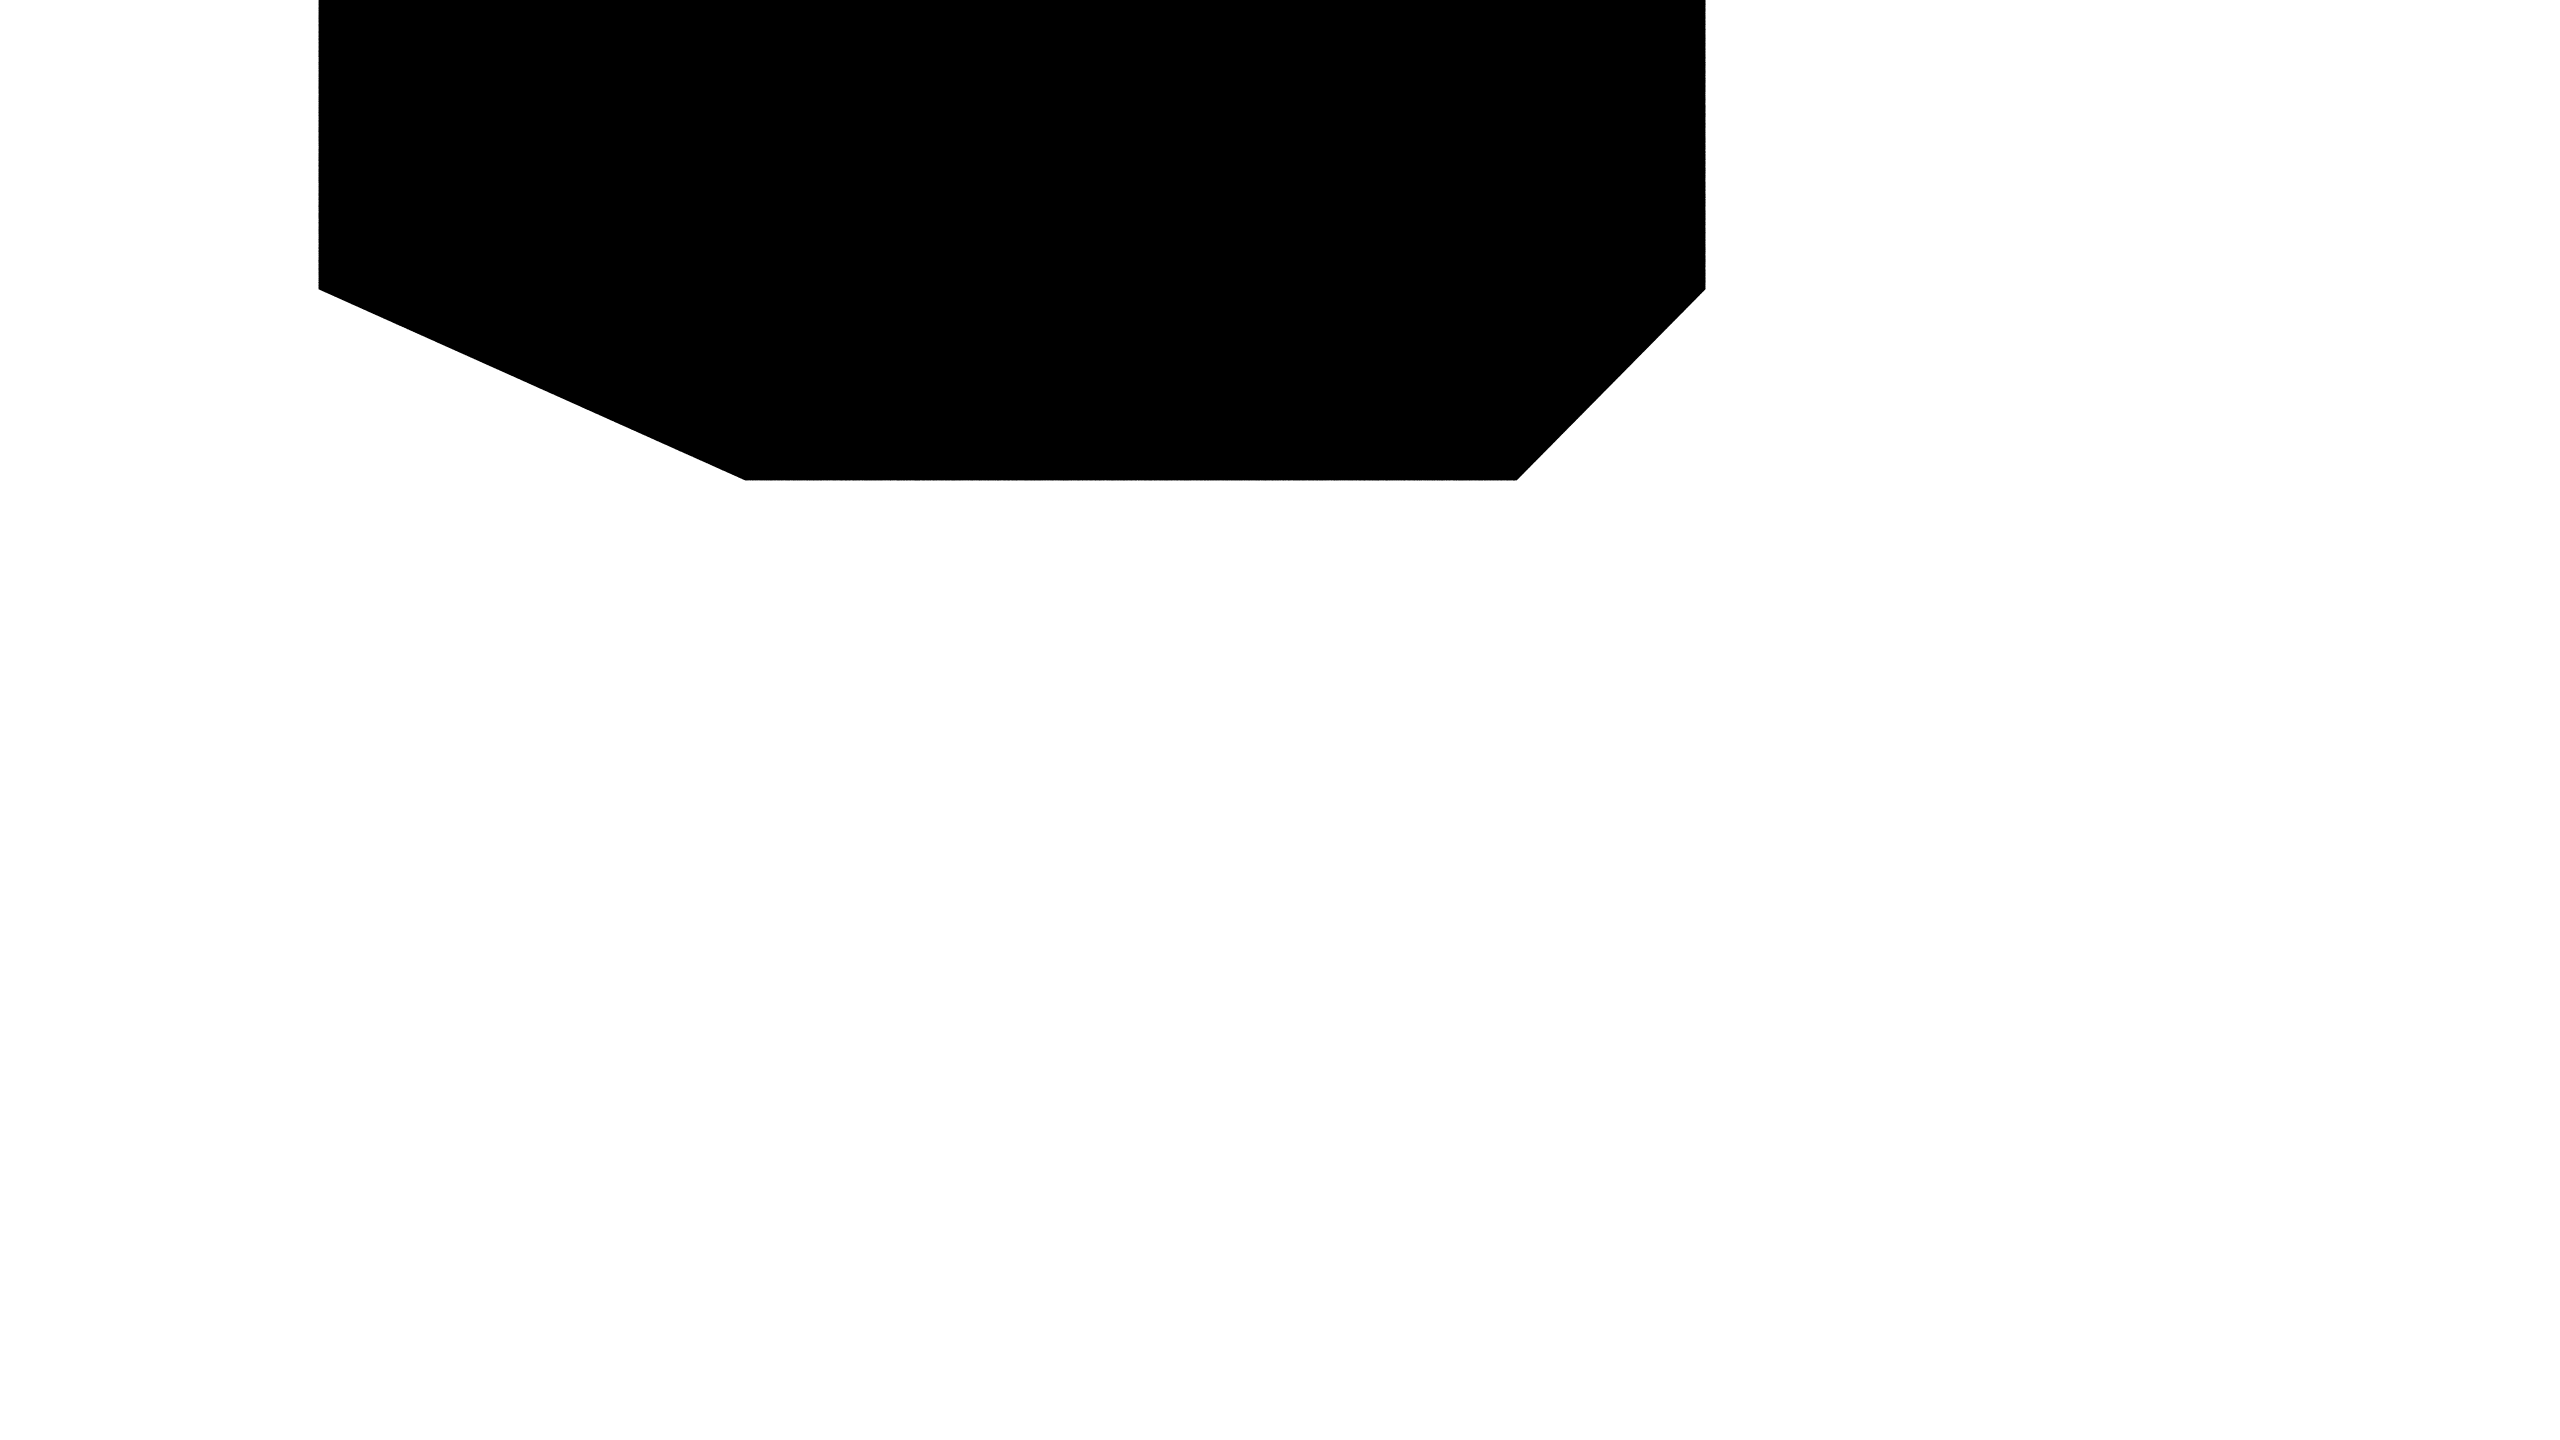
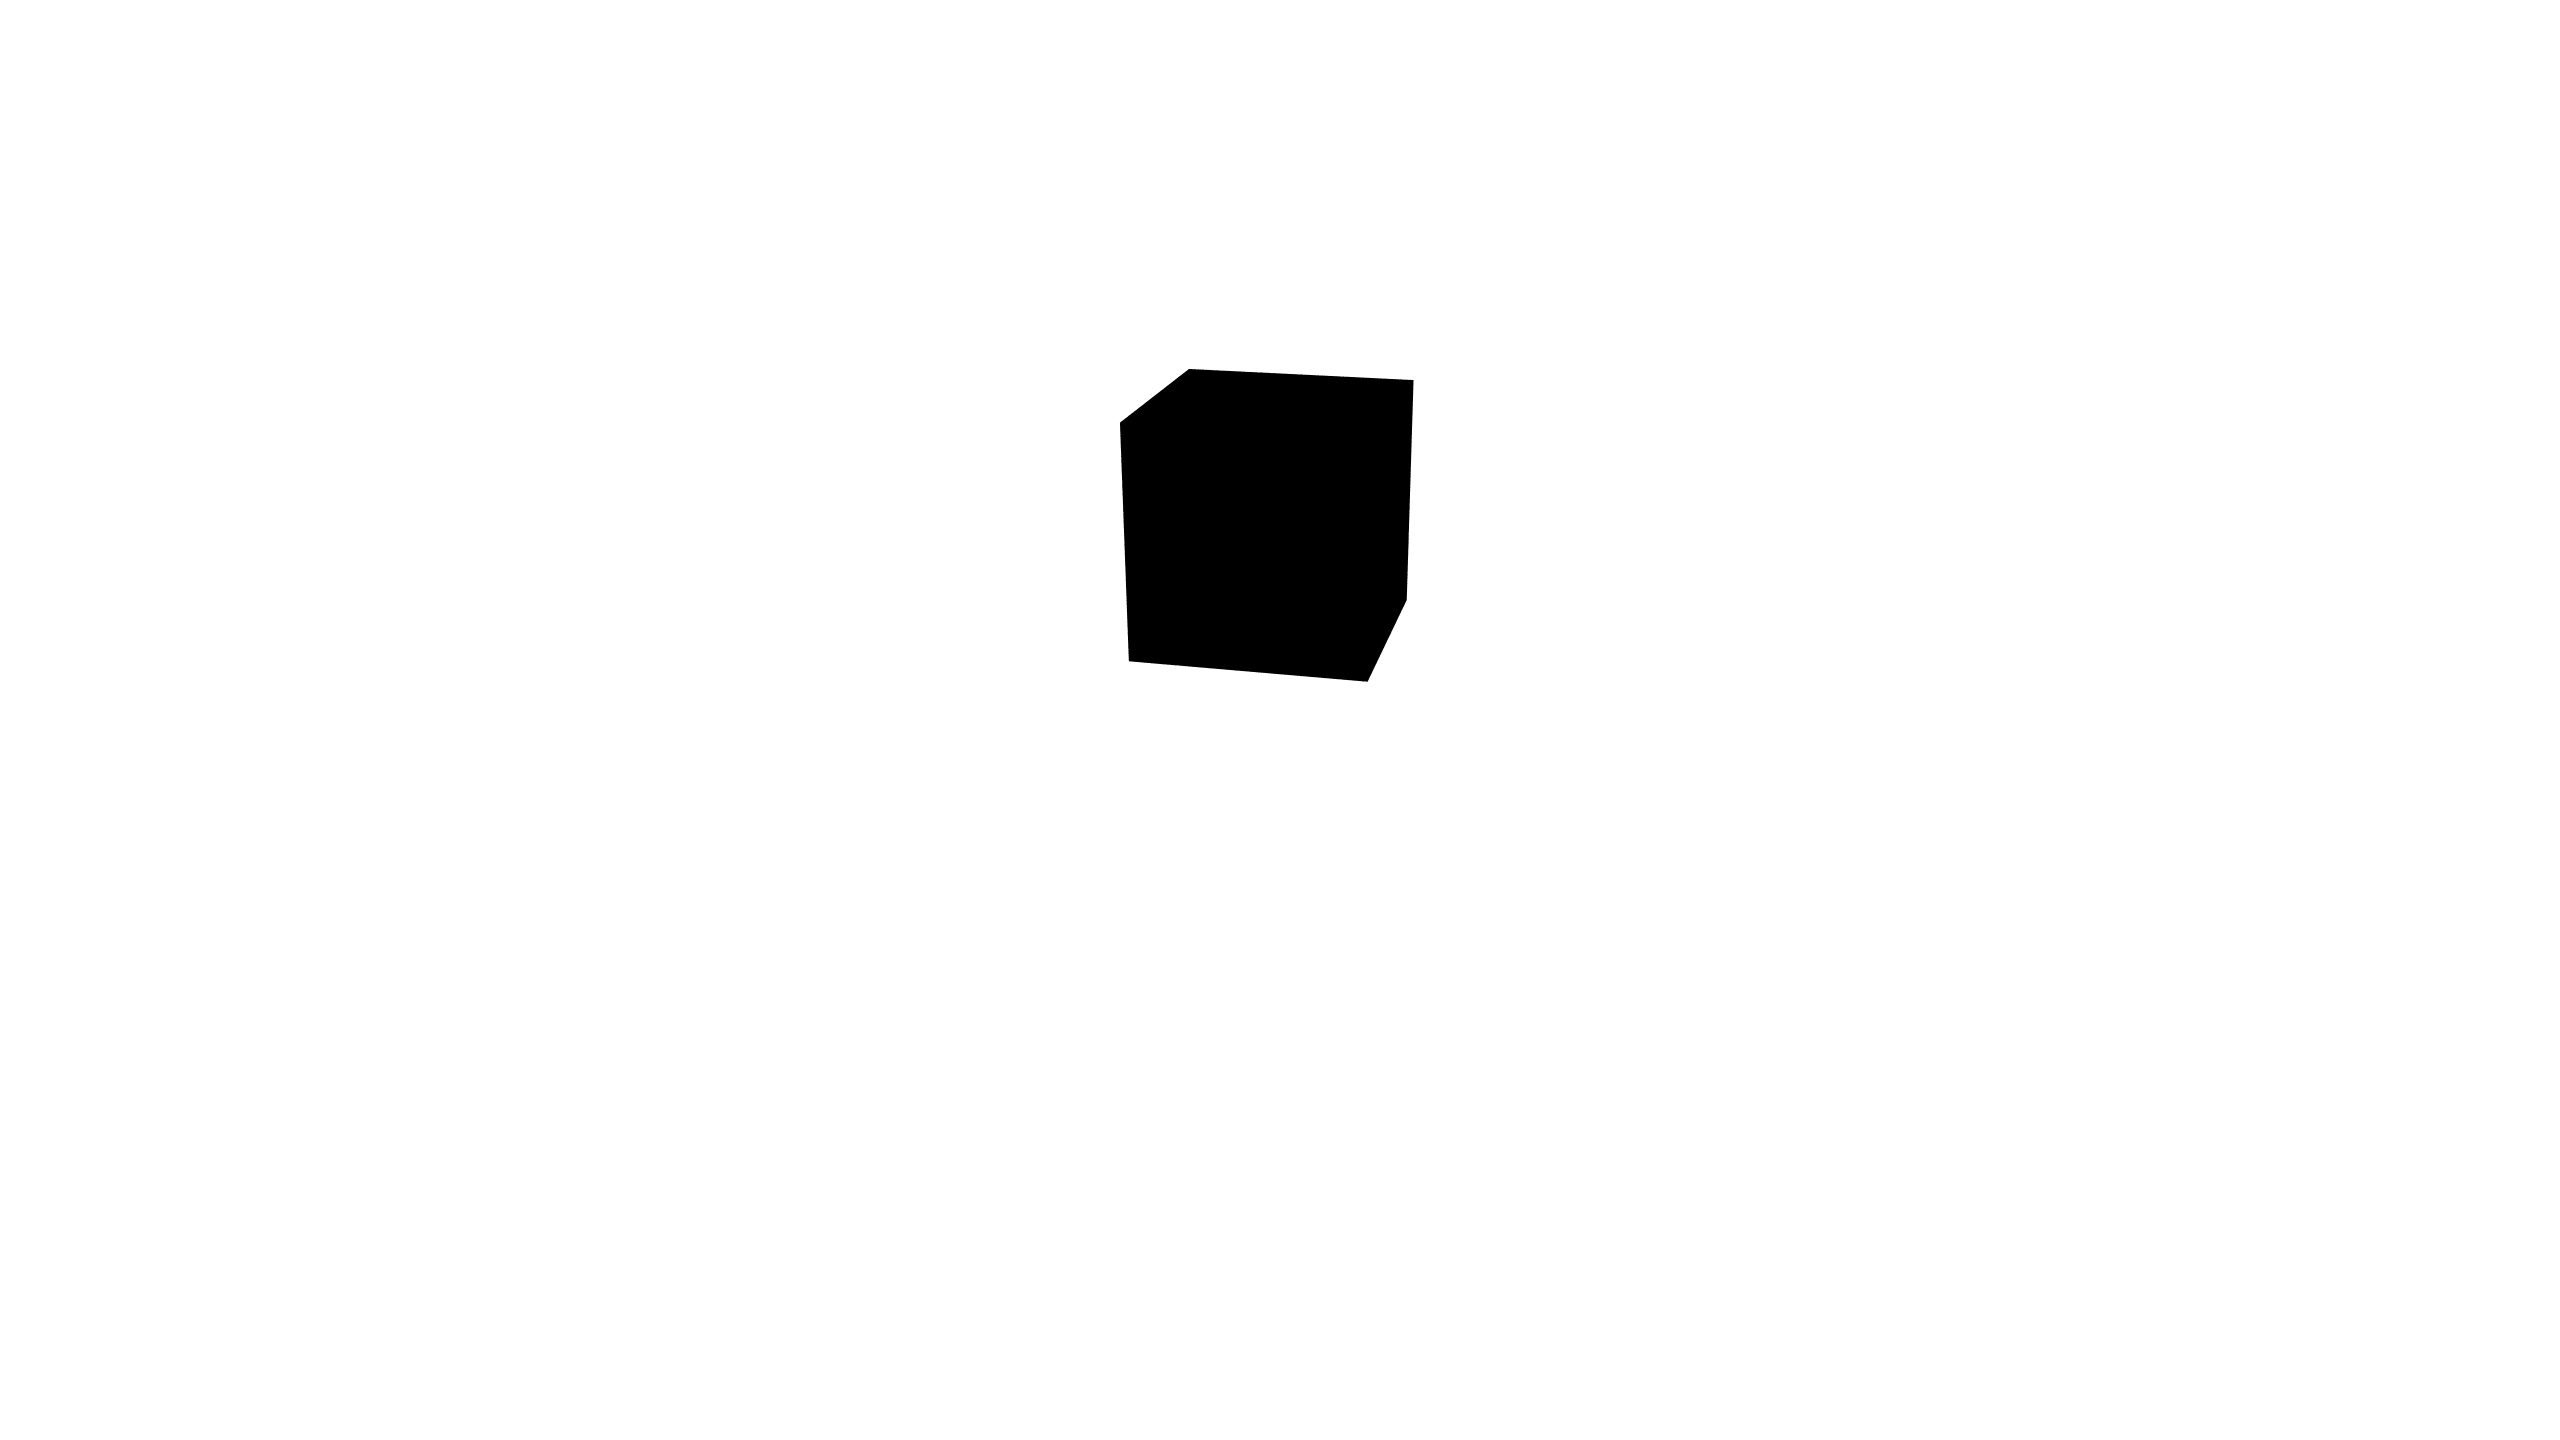
fix ray dir

Changed region(s): [[0.125, 0.0, 0.6875, 0.4688]]

diff --git a/Engine/Function/src/ECS/Components/CameraComponent.cpp b/Engine/Function/src/ECS/Components/CameraComponent.cpp
@@ -7,23 +7,21 @@ Engine::CameraComponent::CameraComponent(CameraType type, float width, float hei
 {
 }
 
-glm::vec3 Engine::CameraComponent::GetRayWorld(float u, float v, const glm::mat4 &viewMatrix) const
+glm::vec3 Engine::CameraComponent::GetLocalDir(float u, float v) const
 {
-    // 1. NDC space
-    float ndcX = u * 2.0f - 1.0f;
-    float ndcY = v * 2.0f - 1.0f;
-
-    // 2. Clip space
-    glm::vec4 rayClip = glm::vec4(ndcX, ndcY, -1.0f, 1.0f); // z = -1 = near plane
-
-    // 2. Clip space -> Eye space
-    glm::vec4 rayEye = glm::inverse(m_ProjectionMatrix) * rayClip;
-    rayEye = glm::vec4(rayEye.x, rayEye.y, -1.0f, 0.0f); // w=0 表示方向向量
-
-    // 3. Eye space -> World space
-    glm::vec4 rayWorld4 = glm::inverse(viewMatrix) * rayEye;
-    glm::vec3 rayWorld = glm::normalize(glm::vec3(rayWorld4));
-    return rayWorld;
+    if (Type == CameraType::Orthographic)
+    {
+        return glm::vec3(0.0f, 0.0f, -1.0f);
+    }
+    else
+    {
+        float aspectRatio = (float)m_Width / (float)m_Height;
+        float fovRad = glm::radians(FOV);
+        float px = (2.0f * u - 1.0f) * tan(fovRad / 2.0f) * aspectRatio;
+        float py = (1.0f - 2.0f * v) * tan(fovRad / 2.0f);
+        glm::vec3 dir = glm::normalize(glm::vec3(px, py, -1.0f));
+        return dir;
+    }
 }
 
 void Engine::CameraComponent::Resize(int width, int height)

diff --git a/Engine/Function/src/Physics/Ray/RayTracing.cpp b/Engine/Function/src/Physics/Ray/RayTracing.cpp
@@ -59,7 +59,10 @@ glm::vec3 Engine::RayTracing::RenderPixel(const Entity &camera, const std::vecto
     {
         float u = (x + Random::GetInstance().NextFloat()) / (float)(cameraComp->GetWidth());
         float v = (y + Random::GetInstance().NextFloat()) / (float)(cameraComp->GetHeight());
-        Ray ray(transform->Position, cameraComp->GetRayWorld(u, v, glm::inverse(transform->GetTransformMatrix())));
+        glm::vec3 localDir = cameraComp->GetLocalDir(u, v);
+        Ray ray(transform->Position,
+                glm::normalize(transform->GetRotationQuat(TransformSpace::Global) *
+                               localDir)); // Transform to world space direction
 
         // Trace the ray
         glm::vec3 rayColor(1.0f);

diff --git a/Engine/Function/src/ECS/Components/BasicComponents.cpp b/Engine/Function/src/ECS/Components/BasicComponents.cpp
@@ -29,6 +29,14 @@ Engine::TransformComponent::TransformComponent(const glm::vec3 &position, const 
     SetRotationEuler(rotation);
 }
 
+const glm::quat &Engine::TransformComponent::GetRotationQuat(TransformSpace space) const
+{
+    if (space == TransformSpace::Local)
+        return m_RotationQuat;
+    else
+        return m_GlobalRotationQuat;
+}
+
 glm::vec3 Engine::TransformComponent::GetForward(TransformSpace space) const
 {
     if (space == TransformSpace::Local)

diff --git a/Engine/Function/src/ECS/Components/BasicComponents.hpp b/Engine/Function/src/ECS/Components/BasicComponents.hpp
@@ -78,6 +78,7 @@ public:
     // Getters
     const glm::vec3 &GetRotationRadians() const { return m_RotationRadians; }
     glm::vec3 GetRotationEuler() const { return glm::degrees(m_RotationRadians); }
+    const glm::quat &GetRotationQuat(TransformSpace space) const;
     const glm::mat4 &GetTransformMatrix() const { return m_TransformMatrix; }
     glm::vec3 GetForward(TransformSpace space) const;
     glm::vec3 GetRight(TransformSpace space) const;

diff --git a/Engine/Function/src/ECS/Components/CameraComponent.hpp b/Engine/Function/src/ECS/Components/CameraComponent.hpp
@@ -30,7 +30,7 @@ public:
     int GetWidth() const { return m_Width; }
     int GetHeight() const { return m_Height; }
     const glm::mat4 &GetProjectionMatrix() const { return m_ProjectionMatrix; }
-    glm::vec3 GetRayWorld(float u, float v, const glm::mat4 &viewMatrix) const;
+    glm::vec3 GetLocalDir(float u, float v) const; // u is in [0,1], v is in [0,1]
 
 public:
     void Resize(int width, int height);
